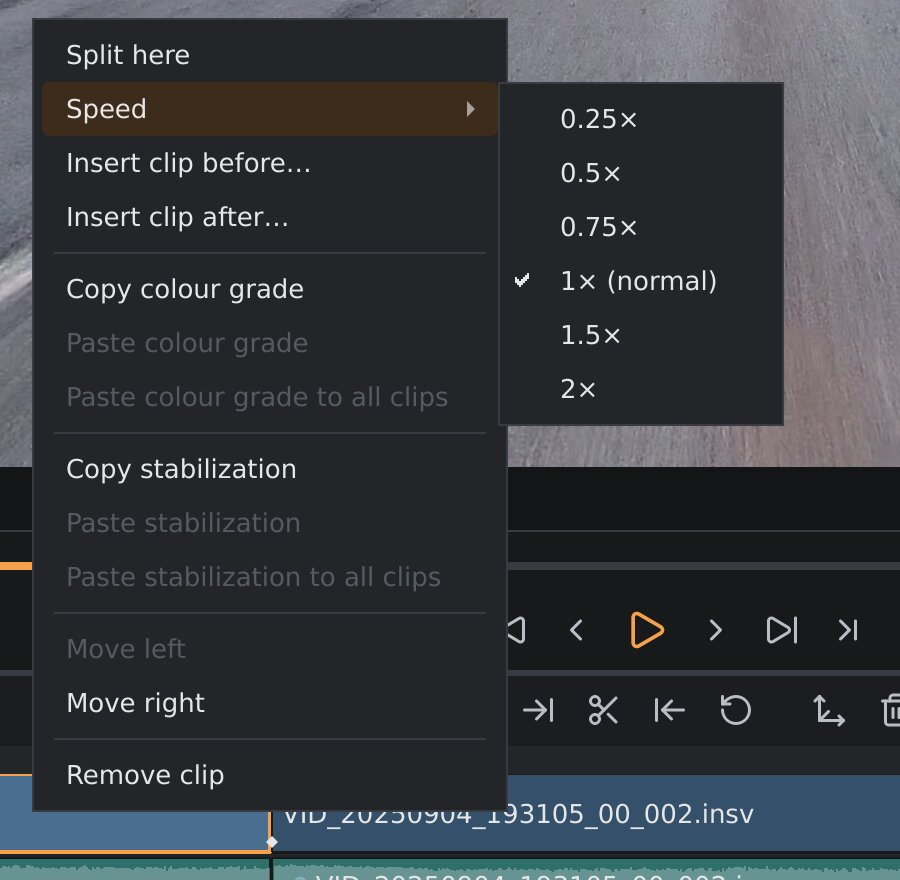
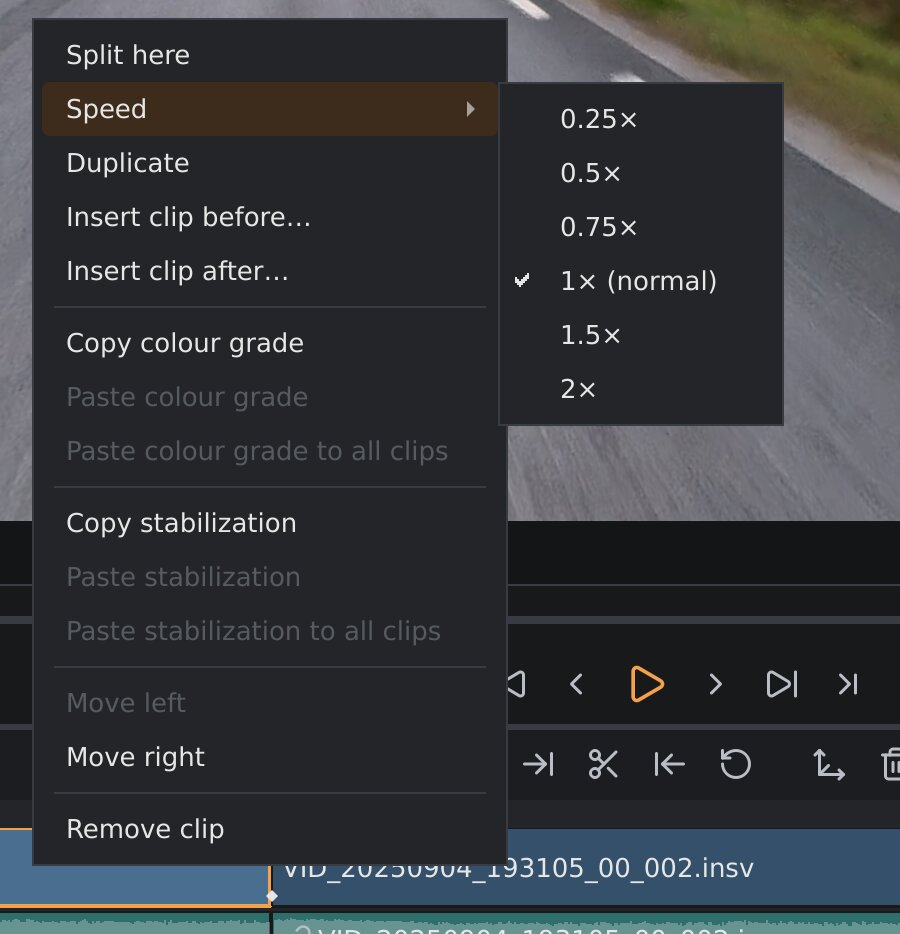
feat(timeline): duplicate a clip from its menu
Right-click a clip on the video track > Duplicate puts a copy right
after it (Timeline::duplicateClip), with everything the clip has: trim,
speed, reframe keys, colour, stabilization, stitch settings, privacy
blur and, on a flat clip, its fit. Its linked sound on the stream tracks
is copied with it and lands under the copy; the main-track clips after
it move right, while overlays, free audio and music keep their time, as
for any main-track edit. The copy is selected, so the sidebar edits it.
One undo step.

The manual's timeline chapter has a Duplicating section, and its
clip-menu screenshot shows the new entry.

diff --git a/tests/timeline_test.cpp b/tests/timeline_test.cpp
@@ -297,6 +297,52 @@ void testTimelineSplit()
     CHECK(tl.totalDurationMs() == 16000);
 }
 
+// Duplicate: a copy right after the clip, with its settings and its sound;
+// the clips after it move right.
+void testTimelineDuplicate()
+{
+    Timeline tl;
+    const int a = tl.appendClip("a.insv", 20000, 30.0, 7680, 3840, 2);
+    const int b = tl.appendClip("b.insv", 10000, 30.0, 7680, 3840, 2);
+    tl.setClipTrimIn(a, 2000);
+    tl.setClipTrimOut(a, 8000);
+    tl.setClipSpeed(a, 2.0); // 3 s on the timeline
+    tl.upsertClipReframeKey(a, 5000, {0.5f, 0.0f, 0.0f, 1.2f});
+    ColorGrade g;
+    g.contrast = 30.0f;
+    tl.setClipColor(a, g);
+    tl.setClipBlurPlates(a, true);
+
+    CHECK(tl.duplicateClip(999) == 0);
+    const int copy = tl.duplicateClip(a);
+    CHECK(copy != 0 && copy != a && copy != b);
+    CHECK(tl.count() == 3 && tl.indexOfId(copy) == 1 && tl.indexOfId(b) == 2);
+    const ClipItem &c = *tl.clipById(copy);
+    CHECK(c.sourcePath == "a.insv" && c.trimInMs == 2000 && c.trimOutMs == 8000);
+    CHECK(c.speed == 2.0 && c.reframe.count() == 1 && c.color == g && c.blurPlates);
+    CHECK(tl.totalDurationMs() == 3000 + 3000 + 10000);
+
+    // Each stream track: the original's sound, the copy's after it, then b's.
+    const Track::Role roles[] = {Track::Role::CameraMic, Track::Role::ExternalMic};
+    for (const Track::Role role : roles) {
+        const Track *t = tl.trackById(tl.streamTrackId(role));
+        CHECK(t && t->clips.size() == 3);
+        if (!t || t->clips.size() != 3)
+            continue;
+        CHECK(t->clips[0].linkedClipId == a && t->clips[0].startMs == 0);
+        CHECK(t->clips[1].linkedClipId == copy && t->clips[1].startMs == 3000);
+        CHECK(t->clips[1].trimInMs == 2000 && t->clips[1].speed == 2.0);
+        CHECK(t->clips[1].id != t->clips[0].id);
+        CHECK(t->clips[2].linkedClipId == b && t->clips[2].startMs == 6000);
+    }
+
+    // Removing the copy takes only its own sound.
+    tl.removeClip(copy);
+    CHECK(tl.count() == 2);
+    const Track *mic = tl.trackById(tl.streamTrackId(Track::Role::CameraMic));
+    CHECK(mic && mic->clips.size() == 2 && mic->clips[0].linkedClipId == a);
+}
+
 // Where added files go and what an audio clip links to: the first track
 // with room, the nearest clip of the same footage, an overlay's own sound.
 void testTrackQueries()
@@ -356,6 +402,7 @@ int main()
     testKeyNavigation();
     testTimelineStructure();
     testTimelineSplit();
+    testTimelineDuplicate();
     testTrackQueries();
     return modeltest::finish("timeline_test");
 }

diff --git a/tests/main_window_test.cpp b/tests/main_window_test.cpp
@@ -525,6 +525,34 @@ void testStitching(const Ctx &c)
     CHECK(waitFor([&] { return guard->currentIndex() == int(G::Premium) && depth->isChecked(); }));
 }
 
+// Duplicate (the clip menu): the copy lands after the clip and is selected,
+// so the panels edit it; one undo step takes it away.
+void testDuplicateClip(const Ctx &c)
+{
+    auto *exposure = find<QSlider>(c.w, "colourExposure");
+    QAction *undo = action(c, "undoAction");
+    if (!exposure || !undo)
+        return;
+    settle();
+    const int before = c.timeline->count();
+    const int a = c.timeline->clipAt(0).id;
+    emit c.timelineWidget->clipDuplicateRequested(a);
+    CHECK(c.timeline->count() == before + 1);
+    if (c.timeline->count() != before + 1)
+        return;
+    const int copy = c.timeline->clipAt(1).id;
+    CHECK(copy != a && c.timeline->clipAt(1).sourcePath == c.timeline->clipAt(0).sourcePath);
+    CHECK(c.timeline->totalDurationMs() == (before + 1) * kClipMs);
+    settle();
+    exposure->setValue(-10); // the selected clip: the copy
+    CHECK(std::abs(c.timeline->clipById(copy)->color.exposureEv + 1.0f) < 1e-4f);
+    CHECK(c.timeline->clipById(a)->color.exposureEv == 0.0f);
+    undo->trigger();
+    undo->trigger();
+    CHECK(c.timeline->count() == before);
+    emit c.timelineWidget->clipSelected(0); // nothing selected again
+}
+
 // Files dropped on the Media tab are probed on worker threads; Add to
 // timeline puts audio on a new audio track at the playhead.
 void testMediaPool(const Ctx &c)
@@ -1038,6 +1066,7 @@ int main(int argc, char **argv)
             testVideoEdits(c);
             testColour(c);
             testStitching(c);
+            testDuplicateClip(c);
             testMediaPool(c);
             testAudioTrack(c);
             testOverlay(c);

diff --git a/tests/timeline_widget_test.cpp b/tests/timeline_widget_test.cpp
@@ -10,7 +10,10 @@
 #include "TimelineWidget.h"
 
 #include <QApplication>
+#include <QContextMenuEvent>
 #include <QLineEdit>
+#include <QMenu>
+#include <QTimer>
 #include <QMimeData>
 #include <QScrollBar>
 #include <QUrl>
@@ -796,6 +799,30 @@ void testFoldSound()
 
 } // namespace
 
+// The main clip's menu: Duplicate asks for a copy of the clip clicked.
+void testDuplicateMenu()
+{
+    Fixture f;
+    QSignalSpy dup(&f.w, &TimelineWidget::clipDuplicateRequested);
+    bool found = false;
+    QTimer::singleShot(0, [&] { // in the menu's own event loop
+        auto *menu = qobject_cast<QMenu *>(QApplication::activePopupWidget());
+        QAction *a = menu ? menu->findChild<QAction *>(QStringLiteral("clipDuplicateAction"))
+                          : nullptr;
+        found = a != nullptr;
+        if (!menu)
+            return;
+        if (a)
+            menu->setActiveAction(a);
+        QTest::keyClick(menu, a ? Qt::Key_Return : Qt::Key_Escape);
+    });
+    const QPoint at(Fixture::x(14000), mainY());
+    QContextMenuEvent e(QContextMenuEvent::Mouse, at, f.w.mapToGlobal(at));
+    QApplication::sendEvent(&f.w, &e);
+    CHECK(found);
+    CHECK(dup.count() == 1 && dup.last().at(0).toInt() == 2); // clip "b"
+}
+
 int main(int argc, char **argv)
 {
     qputenv("QT_QPA_PLATFORM", "offscreen");
@@ -805,6 +832,7 @@ int main(int argc, char **argv)
     testOnlyOntoTracksThatHoldIt();
     testTrims();
     testHeaderAndMain();
+    testDuplicateMenu();
     testZoom();
     testTrackHeaders();
     testDrop();

diff --git a/src/core/Timeline.cpp b/src/core/Timeline.cpp
@@ -300,6 +300,38 @@ int Timeline::splitClip(int clipId, qint64 atSourceMs)
     return right.id;
 }
 
+int Timeline::duplicateClip(int clipId)
+{
+    const int i = indexOfId(clipId);
+    if (i < 0)
+        return 0;
+    ClipItem copy = m_clips.at(i);
+    copy.id = m_nextId++;
+    m_clips.insert(i + 1, copy);
+    bool audio = false;
+    for (Track &t : m_tracks) {
+        QList<TrackClip> added;
+        for (const TrackClip &a : t.clips) {
+            if (a.linkedClipId != clipId)
+                continue;
+            TrackClip d = a; // placed after the copy by relinkAudio
+            d.id = m_nextId++;
+            d.linkedClipId = copy.id;
+            added.push_back(d);
+        }
+        if (!added.isEmpty()) {
+            t.clips.append(added);
+            audio = true;
+        }
+    }
+
+    emit clipInserted(i + 1);
+    emit durationChanged(totalDurationMs());
+    if (relinkAudio() || audio)
+        emit tracksChanged();
+    return copy.id;
+}
+
 void Timeline::clear()
 {
     if (!m_tracks.isEmpty()) {

diff --git a/src/ui/TimelineWidgetInput.cpp b/src/ui/TimelineWidgetInput.cpp
@@ -566,6 +566,9 @@ void TimelineWidget::contextMenuEvent(QContextMenuEvent *e)
             speedActions << a;
         }
 
+        QAction *duplicate = menu.addAction(tr("Duplicate"));
+        duplicate->setObjectName(QStringLiteral("clipDuplicateAction"));
+        duplicate->setToolTip(tr("A copy of the clip right after it, with all its settings"));
         QAction *insertBefore = menu.addAction(tr("Insert clip before…"));
         QAction *insertAfter = menu.addAction(tr("Insert clip after…"));
 
@@ -595,6 +598,8 @@ void TimelineWidget::contextMenuEvent(QContextMenuEvent *e)
             return;
         if (chosen == split)
             emit clipSplitRequested(r.clip.id, splitSrc);
+        else if (chosen == duplicate)
+            emit clipDuplicateRequested(r.clip.id);
         else if (chosen == moveL)
             emit clipMoved(r.clip.id, h.row - 1);
         else if (chosen == moveR)

diff --git a/src/ui/MainWindow.cpp b/src/ui/MainWindow.cpp
@@ -571,6 +571,10 @@ void MainWindow::connectTimeline()
             &Timeline::removeClip);
     connect(m_timelineWidget, &TimelineWidget::clipSplitRequested, this,
             [this](int id, qint64 atSourceMs) { m_timeline->splitClip(id, atSourceMs); });
+    connect(m_timelineWidget, &TimelineWidget::clipDuplicateRequested, this, [this](int id) {
+        if (const int copy = m_timeline->duplicateClip(id))
+            selectVideoClip(copy);
+    });
     connect(m_timelineWidget, &TimelineWidget::clipSpeedRequested, m_timeline,
             &Timeline::setClipSpeed);
 

diff --git a/src/core/Timeline.h b/src/core/Timeline.h
@@ -170,6 +170,11 @@ public slots:
     // or 0 if the point isn't strictly inside the trim range (min gap each
     // side).
     int splitClip(int clipId, qint64 atSourceMs);
+    // Insert a copy of a main-track clip right after it, with everything it
+    // has (trim, speed, reframe keys, colour, stabilization, stitch,
+    // privacy, fit) and a copy of its linked sound; the clips after it move
+    // right. Returns the copy's id, or 0 if there's no such clip.
+    int duplicateClip(int clipId);
     // Drop every clip and every extra track.
     void clear();
 

diff --git a/src/ui/TimelineWidget.h b/src/ui/TimelineWidget.h
@@ -184,6 +184,7 @@ signals:
     void clipMoved(int clipId, int toIndex);
     void clipRemoveRequested(int clipId);
     void clipSplitRequested(int clipId, qint64 atSourceMs);
+    void clipDuplicateRequested(int clipId);
     void clipSpeedRequested(int clipId, double speed);
     void gradeCopyRequested(int clipId);
     void gradePasteRequested(int clipId);

diff --git a/docs/manual/timeline.md b/docs/manual/timeline.md
@@ -70,8 +70,8 @@ shorten or remove a clip, the clips after it move up.
 
 <img src="images/timeline-clip-menu.jpg" width="450" alt="The menu you get by right-clicking a clip on the video track, with the Speed submenu open">
 
-Right-click a clip for its menu: split it, change its speed, insert
-another clip before or after it, copy or paste its colour grade
+Right-click a clip for its menu: split it, change its speed, duplicate
+it, insert another clip before or after it, copy or paste its colour grade
 ([Colour](colour.md)) or its stabilization
 ([Stabilization](stabilization.md)), move it, or remove it.
 
@@ -156,6 +156,16 @@ of a recording, or give each part its own settings.
 
 Both halves keep everything the clip had: its stabilization, colour,
 audio settings and reframe keyframes.
+
+### Duplicating
+
+Right-click a clip and choose **Duplicate**. A copy goes right after it,
+with everything the clip has: trims, speed, reframe keyframes,
+stabilization, stitching, colour, privacy blur, and its sound on the audio
+tracks. The clips after it move up to make room. The copy is selected, so
+the settings sidebar changes the copy, not the original. Use it to show the
+same moment twice, say once from the front and once from behind, with
+different reframe keyframes.
 
 ### Speed: slow motion and fast forward
 
